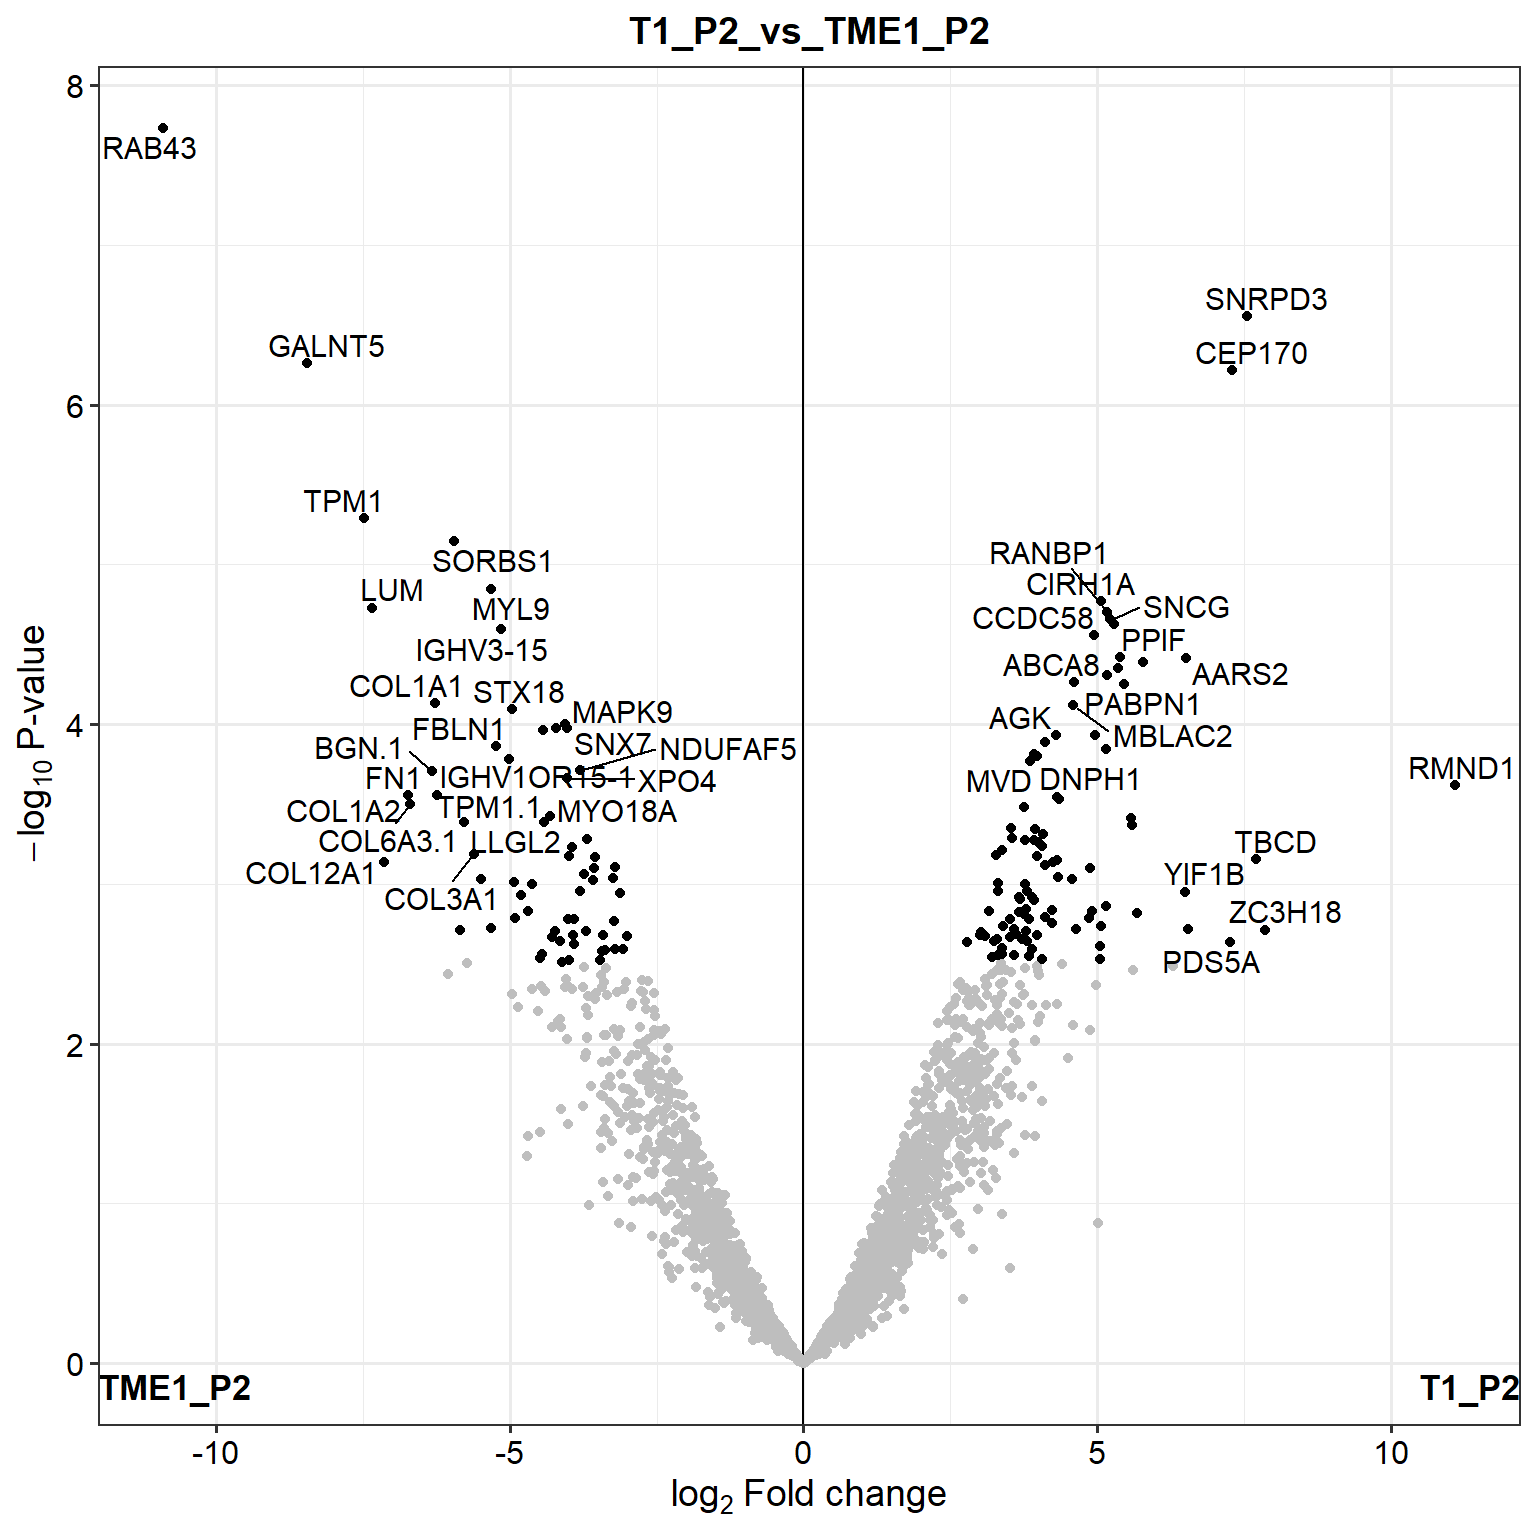
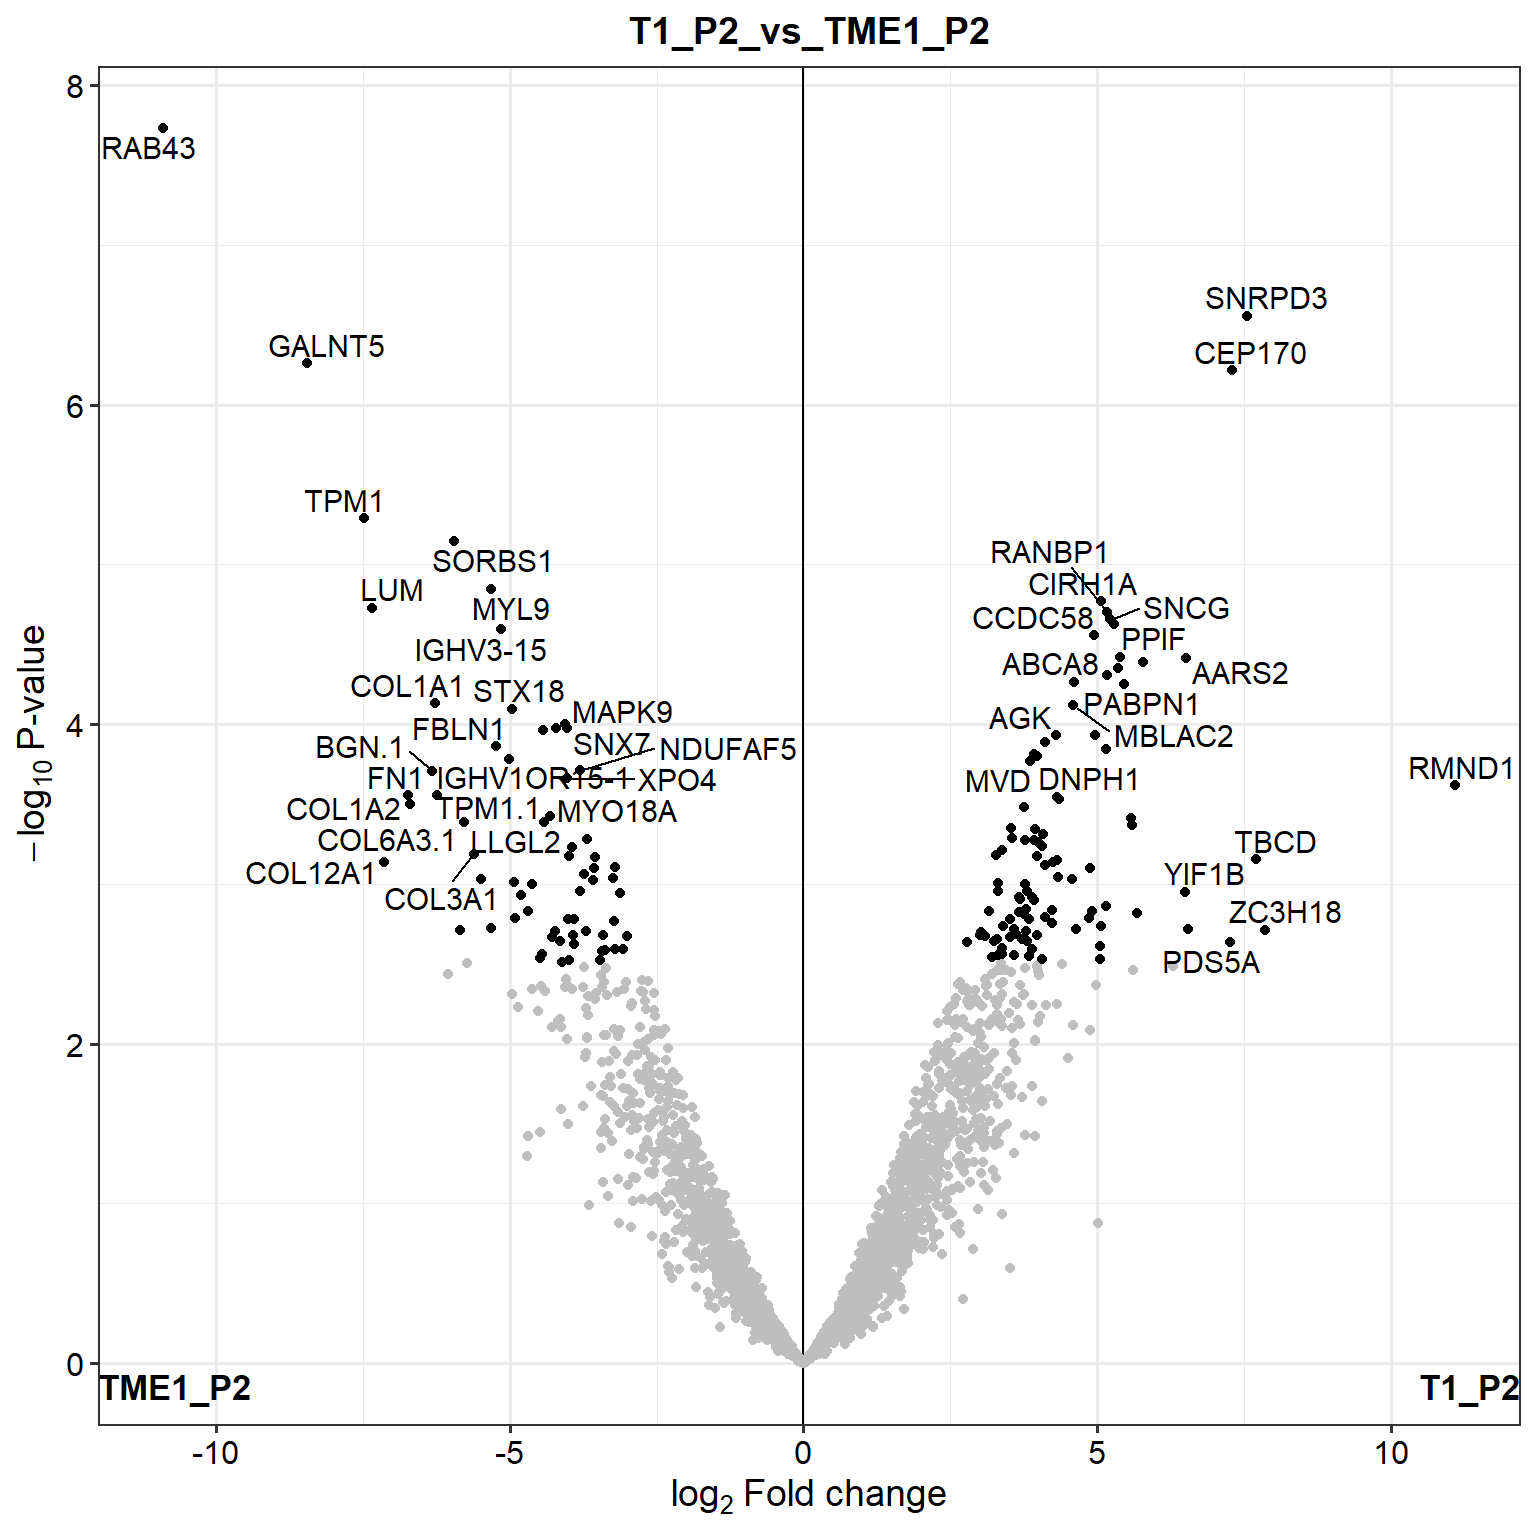
Build site.

diff --git a/docs/Integration_old_analysis_T1_TME1.html b/docs/Integration_old_analysis_T1_TME1.html
@@ -378,7 +378,7 @@ div.tocify {
 
 <p>
 <button type="button" class="btn btn-default btn-workflowr btn-workflowr-report" data-toggle="collapse" data-target="#workflowr-report">
-<span class="glyphicon glyphicon-list" aria-hidden="true"></span> workflowr <span class="glyphicon glyphicon-exclamation-sign text-danger" aria-hidden="true"></span>
+<span class="glyphicon glyphicon-list" aria-hidden="true"></span> workflowr <span class="glyphicon glyphicon-ok text-success" aria-hidden="true"></span>
 </button>
 </p>
 <div id="workflowr-report" class="collapse">
@@ -387,7 +387,7 @@ div.tocify {
 <a data-toggle="tab" href="#summary">Summary</a>
 </li>
 <li>
-<a data-toggle="tab" href="#checks"> Checks <span class="glyphicon glyphicon-exclamation-sign text-danger" aria-hidden="true"></span> </a>
+<a data-toggle="tab" href="#checks"> Checks <span class="glyphicon glyphicon-ok text-success" aria-hidden="true"></span> </a>
 </li>
 <li>
 <a data-toggle="tab" href="#versions">Past versions</a>
@@ -399,7 +399,7 @@ div.tocify {
 <strong>Last updated:</strong> 2021-06-28
 </p>
 <p>
-<strong>Checks:</strong> <span class="glyphicon glyphicon-ok text-success" aria-hidden="true"></span> 6 <span class="glyphicon glyphicon-exclamation-sign text-danger" aria-hidden="true"></span> 1
+<strong>Checks:</strong> <span class="glyphicon glyphicon-ok text-success" aria-hidden="true"></span> 7 <span class="glyphicon glyphicon-exclamation-sign text-danger" aria-hidden="true"></span> 0
 </p>
 <p>
 <strong>Knit directory:</strong> <code>OC_Nezi/</code> <span class="glyphicon glyphicon-question-sign" aria-hidden="true" title="This is the local directory in which the code in this file was executed."> </span>
@@ -415,12 +415,12 @@ This reproducible <a href="http://rmarkdown.rstudio.com">R Markdown</a> analysis
 <div class="panel panel-default">
 <div class="panel-heading">
 <p class="panel-title">
-<a data-toggle="collapse" data-parent="#workflowr-checks" href="#strongRMarkdownfilestronguncommittedchanges"> <span class="glyphicon glyphicon-exclamation-sign text-danger" aria-hidden="true"></span> <strong>R Markdown file:</strong> uncommitted changes </a>
+<a data-toggle="collapse" data-parent="#workflowr-checks" href="#strongRMarkdownfilestronguptodate"> <span class="glyphicon glyphicon-ok text-success" aria-hidden="true"></span> <strong>R Markdown file:</strong> up-to-date </a>
 </p>
 </div>
-<div id="strongRMarkdownfilestronguncommittedchanges" class="panel-collapse collapse">
+<div id="strongRMarkdownfilestronguptodate" class="panel-collapse collapse">
 <div class="panel-body">
-<p>The R Markdown file has unstaged changes. To know which version of the R Markdown file created these results, you’ll want to first commit it to the Git repo. If you’re still working on the analysis, you can ignore this warning. When you’re finished, you can run <code>wflow_publish</code> to commit the R Markdown file and build the HTML.</p>
+<p>Great! Since the R Markdown file has been committed to the Git repository, you know the exact version of the code that produced these results.</p>
 </div>
 </div>
 </div>
@@ -487,16 +487,16 @@ This reproducible <a href="http://rmarkdown.rstudio.com">R Markdown</a> analysis
 <div class="panel panel-default">
 <div class="panel-heading">
 <p class="panel-title">
-<a data-toggle="collapse" data-parent="#workflowr-checks" href="#strongRepositoryversionstrongahrefhttpsgithubcomFabioBedinOCNezitree5428bbe76dcf1c79d4d12db69f3fcfdd8a695853targetblank5428bbea"> <span class="glyphicon glyphicon-ok text-success" aria-hidden="true"></span> <strong>Repository version:</strong> <a href="https://github.com/FabioBedin/OC_Nezi/tree/5428bbe76dcf1c79d4d12db69f3fcfdd8a695853" target="_blank">5428bbe</a> </a>
+<a data-toggle="collapse" data-parent="#workflowr-checks" href="#strongRepositoryversionstrongahrefhttpsgithubcomFabioBedinOCNezitreee534587007a620e216ce91bed2861b00096ce06ftargetblanke534587a"> <span class="glyphicon glyphicon-ok text-success" aria-hidden="true"></span> <strong>Repository version:</strong> <a href="https://github.com/FabioBedin/OC_Nezi/tree/e534587007a620e216ce91bed2861b00096ce06f" target="_blank">e534587</a> </a>
 </p>
 </div>
[2 lines of base64/hex data omitted]
 <div class="panel-body">
 <p>
 Great! You are using Git for version control. Tracking code development and connecting the code version to the results is critical for reproducibility.
 </p>
 <p>
-The results in this page were generated with repository version <a href="https://github.com/FabioBedin/OC_Nezi/tree/5428bbe76dcf1c79d4d12db69f3fcfdd8a695853" target="_blank">5428bbe</a>. See the <em>Past versions</em> tab to see a history of the changes made to the R Markdown and HTML files.
+The results in this page were generated with repository version <a href="https://github.com/FabioBedin/OC_Nezi/tree/e534587007a620e216ce91bed2861b00096ce06f" target="_blank">e534587</a>. See the <em>Past versions</em> tab to see a history of the changes made to the R Markdown and HTML files.
 </p>
 <p>
 Note that you need to be careful to ensure that all relevant files for the analysis have been committed to Git prior to generating the results (you can use <code>wflow_publish</code> or <code>wflow_git_commit</code>). workflowr only checks the R Markdown file, but you know if there are other scripts or data files that it depends on. Below is the status of the Git repository when the results were generated:
@@ -524,11 +524,6 @@ Untracked files:
     Untracked:  data/proteinGroups.txt
     Untracked:  gene_name_BP_anova.txt
     Untracked:  site_libs/
-
-Unstaged changes:
-    Modified:   analysis/Integration_old_analysis.Rmd
-    Modified:   analysis/Integration_old_analysis_T1_TME1.Rmd
-    Modified:   analysis/Integration_old_analysis_T2_TME2.Rmd
 
 </code></pre>
 <p>
@@ -567,6 +562,40 @@ Message
 </tr>
 </thead>
 <tbody>
+<tr>
+<td>
+Rmd
+</td>
+<td>
+<a href="https://github.com/FabioBedin/OC_Nezi/blob/e534587007a620e216ce91bed2861b00096ce06f/analysis/Integration_old_analysis_T1_TME1.Rmd" target="_blank">e534587</a>
+</td>
+<td>
+FabioBedin
+</td>
+<td>
+2021-06-28
+</td>
+<td>
+bug fix for png images in old analysis
+</td>
+</tr>
+<tr>
+<td>
+html
+</td>
+<td>
+<a href="https://rawcdn.githack.com/FabioBedin/OC_Nezi/e534587007a620e216ce91bed2861b00096ce06f/docs/Integration_old_analysis_T1_TME1.html" target="_blank">e534587</a>
+</td>
+<td>
+FabioBedin
+</td>
+<td>
+2021-06-28
+</td>
+<td>
+bug fix for png images in old analysis
+</td>
+</tr>
 <tr>
 <td>
 html

diff --git a/docs/Integration_old_analysis_T2_TME2.html b/docs/Integration_old_analysis_T2_TME2.html
@@ -378,7 +378,7 @@ div.tocify {
 
 <p>
 <button type="button" class="btn btn-default btn-workflowr btn-workflowr-report" data-toggle="collapse" data-target="#workflowr-report">
-<span class="glyphicon glyphicon-list" aria-hidden="true"></span> workflowr <span class="glyphicon glyphicon-exclamation-sign text-danger" aria-hidden="true"></span>
+<span class="glyphicon glyphicon-list" aria-hidden="true"></span> workflowr <span class="glyphicon glyphicon-ok text-success" aria-hidden="true"></span>
 </button>
 </p>
 <div id="workflowr-report" class="collapse">
@@ -387,7 +387,7 @@ div.tocify {
 <a data-toggle="tab" href="#summary">Summary</a>
 </li>
 <li>
-<a data-toggle="tab" href="#checks"> Checks <span class="glyphicon glyphicon-exclamation-sign text-danger" aria-hidden="true"></span> </a>
+<a data-toggle="tab" href="#checks"> Checks <span class="glyphicon glyphicon-ok text-success" aria-hidden="true"></span> </a>
 </li>
 <li>
 <a data-toggle="tab" href="#versions">Past versions</a>
@@ -399,7 +399,7 @@ div.tocify {
 <strong>Last updated:</strong> 2021-06-28
 </p>
 <p>
-<strong>Checks:</strong> <span class="glyphicon glyphicon-ok text-success" aria-hidden="true"></span> 6 <span class="glyphicon glyphicon-exclamation-sign text-danger" aria-hidden="true"></span> 1
+<strong>Checks:</strong> <span class="glyphicon glyphicon-ok text-success" aria-hidden="true"></span> 7 <span class="glyphicon glyphicon-exclamation-sign text-danger" aria-hidden="true"></span> 0
 </p>
 <p>
 <strong>Knit directory:</strong> <code>OC_Nezi/</code> <span class="glyphicon glyphicon-question-sign" aria-hidden="true" title="This is the local directory in which the code in this file was executed."> </span>
@@ -415,12 +415,12 @@ This reproducible <a href="http://rmarkdown.rstudio.com">R Markdown</a> analysis
 <div class="panel panel-default">
 <div class="panel-heading">
 <p class="panel-title">
-<a data-toggle="collapse" data-parent="#workflowr-checks" href="#strongRMarkdownfilestronguncommittedchanges"> <span class="glyphicon glyphicon-exclamation-sign text-danger" aria-hidden="true"></span> <strong>R Markdown file:</strong> uncommitted changes </a>
+<a data-toggle="collapse" data-parent="#workflowr-checks" href="#strongRMarkdownfilestronguptodate"> <span class="glyphicon glyphicon-ok text-success" aria-hidden="true"></span> <strong>R Markdown file:</strong> up-to-date </a>
 </p>
 </div>
-<div id="strongRMarkdownfilestronguncommittedchanges" class="panel-collapse collapse">
+<div id="strongRMarkdownfilestronguptodate" class="panel-collapse collapse">
 <div class="panel-body">
-<p>The R Markdown file has unstaged changes. To know which version of the R Markdown file created these results, you’ll want to first commit it to the Git repo. If you’re still working on the analysis, you can ignore this warning. When you’re finished, you can run <code>wflow_publish</code> to commit the R Markdown file and build the HTML.</p>
+<p>Great! Since the R Markdown file has been committed to the Git repository, you know the exact version of the code that produced these results.</p>
 </div>
 </div>
 </div>
@@ -487,16 +487,16 @@ This reproducible <a href="http://rmarkdown.rstudio.com">R Markdown</a> analysis
 <div class="panel panel-default">
 <div class="panel-heading">
 <p class="panel-title">
-<a data-toggle="collapse" data-parent="#workflowr-checks" href="#strongRepositoryversionstrongahrefhttpsgithubcomFabioBedinOCNezitree5428bbe76dcf1c79d4d12db69f3fcfdd8a695853targetblank5428bbea"> <span class="glyphicon glyphicon-ok text-success" aria-hidden="true"></span> <strong>Repository version:</strong> <a href="https://github.com/FabioBedin/OC_Nezi/tree/5428bbe76dcf1c79d4d12db69f3fcfdd8a695853" target="_blank">5428bbe</a> </a>
+<a data-toggle="collapse" data-parent="#workflowr-checks" href="#strongRepositoryversionstrongahrefhttpsgithubcomFabioBedinOCNezitreee534587007a620e216ce91bed2861b00096ce06ftargetblanke534587a"> <span class="glyphicon glyphicon-ok text-success" aria-hidden="true"></span> <strong>Repository version:</strong> <a href="https://github.com/FabioBedin/OC_Nezi/tree/e534587007a620e216ce91bed2861b00096ce06f" target="_blank">e534587</a> </a>
 </p>
 </div>
[2 lines of base64/hex data omitted]
 <div class="panel-body">
 <p>
 Great! You are using Git for version control. Tracking code development and connecting the code version to the results is critical for reproducibility.
 </p>
 <p>
-The results in this page were generated with repository version <a href="https://github.com/FabioBedin/OC_Nezi/tree/5428bbe76dcf1c79d4d12db69f3fcfdd8a695853" target="_blank">5428bbe</a>. See the <em>Past versions</em> tab to see a history of the changes made to the R Markdown and HTML files.
+The results in this page were generated with repository version <a href="https://github.com/FabioBedin/OC_Nezi/tree/e534587007a620e216ce91bed2861b00096ce06f" target="_blank">e534587</a>. See the <em>Past versions</em> tab to see a history of the changes made to the R Markdown and HTML files.
 </p>
 <p>
 Note that you need to be careful to ensure that all relevant files for the analysis have been committed to Git prior to generating the results (you can use <code>wflow_publish</code> or <code>wflow_git_commit</code>). workflowr only checks the R Markdown file, but you know if there are other scripts or data files that it depends on. Below is the status of the Git repository when the results were generated:
@@ -524,11 +524,6 @@ Untracked files:
     Untracked:  data/proteinGroups.txt
     Untracked:  gene_name_BP_anova.txt
     Untracked:  site_libs/
-
-Unstaged changes:
-    Modified:   analysis/Integration_old_analysis.Rmd
-    Modified:   analysis/Integration_old_analysis_T1_TME1.Rmd
-    Modified:   analysis/Integration_old_analysis_T2_TME2.Rmd
 
 </code></pre>
 <p>
@@ -567,6 +562,40 @@ Message
 </tr>
 </thead>
 <tbody>
+<tr>
+<td>
+Rmd
+</td>
+<td>
+<a href="https://github.com/FabioBedin/OC_Nezi/blob/e534587007a620e216ce91bed2861b00096ce06f/analysis/Integration_old_analysis_T2_TME2.Rmd" target="_blank">e534587</a>
+</td>
+<td>
+FabioBedin
+</td>
+<td>
+2021-06-28
+</td>
+<td>
+bug fix for png images in old analysis
+</td>
+</tr>
+<tr>
+<td>
+html
+</td>
+<td>
+<a href="https://rawcdn.githack.com/FabioBedin/OC_Nezi/e534587007a620e216ce91bed2861b00096ce06f/docs/Integration_old_analysis_T2_TME2.html" target="_blank">e534587</a>
+</td>
+<td>
+FabioBedin
+</td>
+<td>
+2021-06-28
+</td>
+<td>
+bug fix for png images in old analysis
+</td>
+</tr>
 <tr>
 <td>
 html

diff --git a/docs/Integration_old_analysis.html b/docs/Integration_old_analysis.html
@@ -378,7 +378,7 @@ div.tocify {
 
 <p>
 <button type="button" class="btn btn-default btn-workflowr btn-workflowr-report" data-toggle="collapse" data-target="#workflowr-report">
-<span class="glyphicon glyphicon-list" aria-hidden="true"></span> workflowr <span class="glyphicon glyphicon-exclamation-sign text-danger" aria-hidden="true"></span>
+<span class="glyphicon glyphicon-list" aria-hidden="true"></span> workflowr <span class="glyphicon glyphicon-ok text-success" aria-hidden="true"></span>
 </button>
 </p>
 <div id="workflowr-report" class="collapse">
@@ -387,7 +387,7 @@ div.tocify {
 <a data-toggle="tab" href="#summary">Summary</a>
 </li>
 <li>
-<a data-toggle="tab" href="#checks"> Checks <span class="glyphicon glyphicon-exclamation-sign text-danger" aria-hidden="true"></span> </a>
+<a data-toggle="tab" href="#checks"> Checks <span class="glyphicon glyphicon-ok text-success" aria-hidden="true"></span> </a>
 </li>
 <li>
 <a data-toggle="tab" href="#versions">Past versions</a>
@@ -399,7 +399,7 @@ div.tocify {
 <strong>Last updated:</strong> 2021-06-28
 </p>
 <p>
-<strong>Checks:</strong> <span class="glyphicon glyphicon-ok text-success" aria-hidden="true"></span> 6 <span class="glyphicon glyphicon-exclamation-sign text-danger" aria-hidden="true"></span> 1
+<strong>Checks:</strong> <span class="glyphicon glyphicon-ok text-success" aria-hidden="true"></span> 7 <span class="glyphicon glyphicon-exclamation-sign text-danger" aria-hidden="true"></span> 0
 </p>
 <p>
 <strong>Knit directory:</strong> <code>OC_Nezi/</code> <span class="glyphicon glyphicon-question-sign" aria-hidden="true" title="This is the local directory in which the code in this file was executed."> </span>
@@ -415,12 +415,12 @@ This reproducible <a href="http://rmarkdown.rstudio.com">R Markdown</a> analysis
 <div class="panel panel-default">
 <div class="panel-heading">
 <p class="panel-title">
-<a data-toggle="collapse" data-parent="#workflowr-checks" href="#strongRMarkdownfilestronguncommittedchanges"> <span class="glyphicon glyphicon-exclamation-sign text-danger" aria-hidden="true"></span> <strong>R Markdown file:</strong> uncommitted changes </a>
+<a data-toggle="collapse" data-parent="#workflowr-checks" href="#strongRMarkdownfilestronguptodate"> <span class="glyphicon glyphicon-ok text-success" aria-hidden="true"></span> <strong>R Markdown file:</strong> up-to-date </a>
 </p>
 </div>
-<div id="strongRMarkdownfilestronguncommittedchanges" class="panel-collapse collapse">
+<div id="strongRMarkdownfilestronguptodate" class="panel-collapse collapse">
 <div class="panel-body">
-<p>The R Markdown file has unstaged changes. To know which version of the R Markdown file created these results, you’ll want to first commit it to the Git repo. If you’re still working on the analysis, you can ignore this warning. When you’re finished, you can run <code>wflow_publish</code> to commit the R Markdown file and build the HTML.</p>
+<p>Great! Since the R Markdown file has been committed to the Git repository, you know the exact version of the code that produced these results.</p>
 </div>
 </div>
 </div>
@@ -487,16 +487,16 @@ This reproducible <a href="http://rmarkdown.rstudio.com">R Markdown</a> analysis
 <div class="panel panel-default">
 <div class="panel-heading">
 <p class="panel-title">
-<a data-toggle="collapse" data-parent="#workflowr-checks" href="#strongRepositoryversionstrongahrefhttpsgithubcomFabioBedinOCNezitree5428bbe76dcf1c79d4d12db69f3fcfdd8a695853targetblank5428bbea"> <span class="glyphicon glyphicon-ok text-success" aria-hidden="true"></span> <strong>Repository version:</strong> <a href="https://github.com/FabioBedin/OC_Nezi/tree/5428bbe76dcf1c79d4d12db69f3fcfdd8a695853" target="_blank">5428bbe</a> </a>
+<a data-toggle="collapse" data-parent="#workflowr-checks" href="#strongRepositoryversionstrongahrefhttpsgithubcomFabioBedinOCNezitreee534587007a620e216ce91bed2861b00096ce06ftargetblanke534587a"> <span class="glyphicon glyphicon-ok text-success" aria-hidden="true"></span> <strong>Repository version:</strong> <a href="https://github.com/FabioBedin/OC_Nezi/tree/e534587007a620e216ce91bed2861b00096ce06f" target="_blank">e534587</a> </a>
 </p>
 </div>
[2 lines of base64/hex data omitted]
 <div class="panel-body">
 <p>
 Great! You are using Git for version control. Tracking code development and connecting the code version to the results is critical for reproducibility.
 </p>
 <p>
-The results in this page were generated with repository version <a href="https://github.com/FabioBedin/OC_Nezi/tree/5428bbe76dcf1c79d4d12db69f3fcfdd8a695853" target="_blank">5428bbe</a>. See the <em>Past versions</em> tab to see a history of the changes made to the R Markdown and HTML files.
+The results in this page were generated with repository version <a href="https://github.com/FabioBedin/OC_Nezi/tree/e534587007a620e216ce91bed2861b00096ce06f" target="_blank">e534587</a>. See the <em>Past versions</em> tab to see a history of the changes made to the R Markdown and HTML files.
 </p>
 <p>
 Note that you need to be careful to ensure that all relevant files for the analysis have been committed to Git prior to generating the results (you can use <code>wflow_publish</code> or <code>wflow_git_commit</code>). workflowr only checks the R Markdown file, but you know if there are other scripts or data files that it depends on. Below is the status of the Git repository when the results were generated:
@@ -524,11 +524,6 @@ Untracked files:
     Untracked:  data/proteinGroups.txt
     Untracked:  gene_name_BP_anova.txt
     Untracked:  site_libs/
-
-Unstaged changes:
-    Modified:   analysis/Integration_old_analysis.Rmd
-    Modified:   analysis/Integration_old_analysis_T1_TME1.Rmd
-    Modified:   analysis/Integration_old_analysis_T2_TME2.Rmd
 
 </code></pre>
 <p>
@@ -567,6 +562,40 @@ Message
 </tr>
 </thead>
 <tbody>
+<tr>
+<td>
+Rmd
+</td>
+<td>
+<a href="https://github.com/FabioBedin/OC_Nezi/blob/e534587007a620e216ce91bed2861b00096ce06f/analysis/Integration_old_analysis.Rmd" target="_blank">e534587</a>
+</td>
+<td>
+FabioBedin
+</td>
+<td>
+2021-06-28
+</td>
+<td>
+bug fix for png images in old analysis
+</td>
+</tr>
+<tr>
+<td>
+html
+</td>
+<td>
+<a href="https://rawcdn.githack.com/FabioBedin/OC_Nezi/e534587007a620e216ce91bed2861b00096ce06f/docs/Integration_old_analysis.html" target="_blank">e534587</a>
+</td>
+<td>
+FabioBedin
+</td>
+<td>
+2021-06-28
+</td>
+<td>
+bug fix for png images in old analysis
+</td>
+</tr>
 <tr>
 <td>
 html
